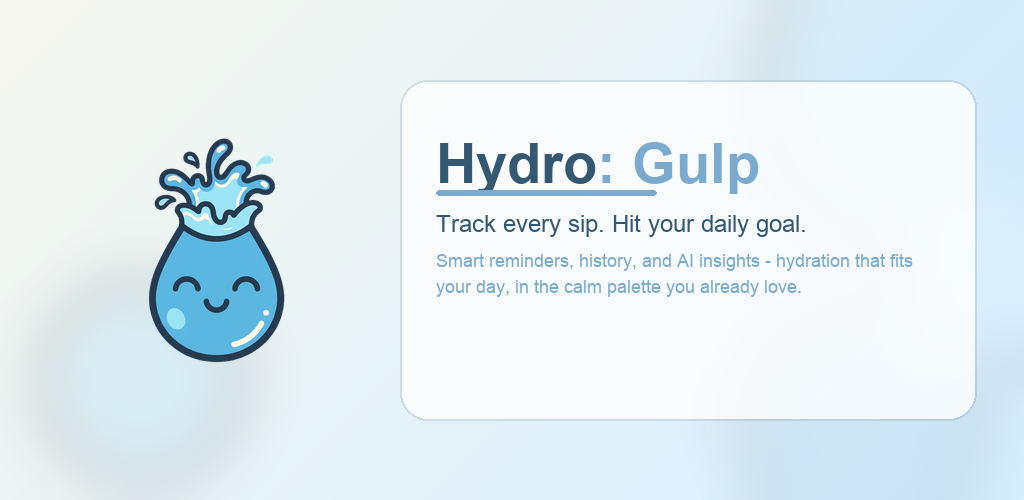
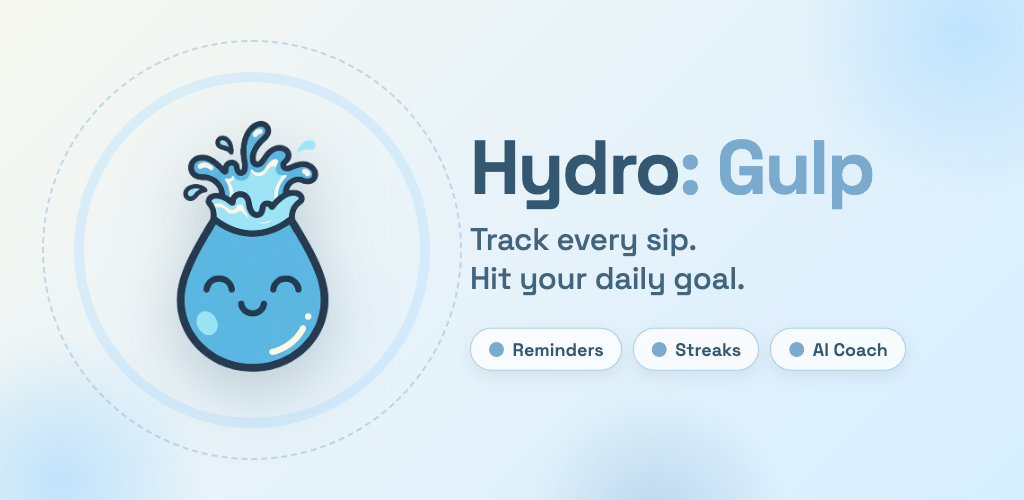
Refactor index.html to enhance mobile layout and readability; updated phone captions for clarity and impact, adjusted styles for better visual presentation.

diff --git a/store-mockups/play-store/feature-graphic.html b/store-mockups/play-store/feature-graphic.html
@@ -1,0 +1,177 @@
+<!DOCTYPE html>
+<html lang="en">
+  <head>
+    <meta charset="UTF-8" />
+    <title>Hydro: Gulp — feature graphic 1024×500</title>
+    <link rel="preconnect" href="https://fonts.googleapis.com" />
+    <link
+      href="https://fonts.googleapis.com/css2?family=Space+Grotesk:wght@500;600;700&display=swap"
+      rel="stylesheet"
+    />
+    <style>
+      /* LightTheme from constants/theme.ts */
+      :root {
+        --bg-start: #f7f8f0;
+        --bg-end: #d6eeff;
+        --text: #355872;
+        --secondary: #7aaace;
+        --accent-light: #9cd5ff;
+      }
+
+      * {
+        box-sizing: border-box;
+      }
+
+      body {
+        margin: 0;
+        background: #0d1520;
+        font-family: "Space Grotesk", system-ui, sans-serif;
+        display: grid;
+        place-items: center;
+        min-height: 100vh;
+      }
+
+      .canvas {
+        width: 1024px;
+        height: 500px;
+        position: relative;
+        overflow: hidden;
+        background: linear-gradient(135deg, var(--bg-start) 0%, #e8f3f9 45%, var(--bg-end) 100%);
+      }
+
+      /* Soft brand-colored orbs, echoing the app's blur cards */
+      .blob {
+        position: absolute;
+        border-radius: 50%;
+        filter: blur(2px);
+      }
+
+      .blob.b1 {
+        width: 340px;
+        height: 340px;
+        right: -110px;
+        top: -140px;
+        background: radial-gradient(circle, rgba(156, 213, 255, 0.5), rgba(156, 213, 255, 0) 70%);
+      }
+
+      .blob.b2 {
+        width: 260px;
+        height: 260px;
+        right: 240px;
+        bottom: -150px;
+        background: radial-gradient(circle, rgba(122, 170, 206, 0.35), rgba(122, 170, 206, 0) 70%);
+      }
+
+      .blob.b3 {
+        width: 300px;
+        height: 300px;
+        left: -90px;
+        bottom: -130px;
+        background: radial-gradient(circle, rgba(156, 213, 255, 0.55), rgba(156, 213, 255, 0) 70%);
+      }
+
+      /* Faint concentric progress ring behind the mascot — nods to the app's goal ring */
+      .ring {
+        position: absolute;
+        left: 42px;
+        top: 40px;
+        width: 420px;
+        height: 420px;
+        border-radius: 50%;
+        border: 2.5px dashed rgba(122, 170, 206, 0.4);
+      }
+
+      .ring.inner {
+        left: 74px;
+        top: 72px;
+        width: 356px;
+        height: 356px;
+        border: 10px solid rgba(156, 213, 255, 0.28);
+      }
+
+      .mascot {
+        position: absolute;
+        /* logo art has ~28% transparent padding — oversize to render ~330px of visible art */
+        left: 22px;
+        top: 16px;
+        width: 460px;
+        height: 460px;
+        object-fit: contain;
+        filter: drop-shadow(0 20px 32px rgba(53, 88, 114, 0.28));
+      }
+
+      .copy {
+        position: absolute;
+        left: 470px;
+        right: 56px;
+        top: 50%;
+        transform: translateY(-50%);
+      }
+
+      .brand {
+        margin: 0 0 14px;
+        font-size: 76px;
+        font-weight: 700;
+        letter-spacing: -0.03em;
+        line-height: 1;
+        color: var(--text);
+      }
+
+      .brand .alt {
+        color: var(--secondary);
+      }
+
+      .tagline {
+        margin: 0 0 30px;
+        font-size: 31px;
+        font-weight: 500;
+        letter-spacing: -0.01em;
+        line-height: 1.25;
+        color: var(--text);
+        opacity: 0.92;
+      }
+
+      .chips {
+        display: flex;
+        flex-wrap: nowrap;
+        gap: 11px;
+      }
+
+      .chip {
+        padding: 9px 17px;
+        border-radius: 999px;
+        background: rgba(255, 255, 255, 0.75);
+        border: 1.5px solid rgba(122, 170, 206, 0.55);
+        box-shadow: 0 6px 16px rgba(53, 88, 114, 0.1);
+        font-size: 18px;
+        font-weight: 600;
+        color: var(--text);
+        white-space: nowrap;
+      }
+
+      .chip .dot {
+        color: var(--secondary);
+        margin-right: 8px;
+      }
+    </style>
+  </head>
+  <body>
+    <div class="canvas">
+      <div class="blob b1"></div>
+      <div class="blob b2"></div>
+      <div class="blob b3"></div>
+      <div class="ring"></div>
+      <div class="ring inner"></div>
+      <img class="mascot" src="../../assets/images/logo.png" alt="Hydro: Gulp mascot" />
+      <div class="copy">
+        <h1 class="brand">Hydro<span class="alt">: Gulp</span></h1>
+        <p class="tagline">Track every sip.<br />Hit your daily goal.</p>
+        <div class="chips">
+          <span class="chip"><span class="dot">●</span>Reminders</span>
+          <span class="chip"><span class="dot">●</span>Streaks</span>
+          <span class="chip"><span class="dot">●</span>AI Coach</span>
+        </div>
+      </div>
+    </div>
+  </body>
+</html>

diff --git a/store-mockups/index.html b/store-mockups/index.html
@@ -90,44 +90,29 @@
         transform-origin: 0 0;
       }
 
-      /* Phone: device + prominent side caption (alternates L/R) inside 1024² */
+      /* Phone: big headline on top, device below — readable at thumbnail size */
       .canvas-phone {
         display: flex;
-        flex-direction: row;
+        flex-direction: column;
         align-items: center;
         justify-content: center;
-        gap: 36px 52px;
-        padding: 28px 40px;
-      }
-
-      /* Body: instructions = child 1. Phone blocks: 2,4,6,8 = caption left; 3,5,7 = caption right */
-      .canvas-phone:nth-child(even) {
-        flex-direction: row;
-      }
-
-      .canvas-phone:nth-child(odd) {
-        flex-direction: row-reverse;
+        gap: 40px;
+        padding: 44px 40px;
       }
 
       .phone-caption {
-        flex: 0 1 400px;
+        flex: none;
         margin: 0;
-        font-size: 28px;
+        max-width: 940px;
+        font-size: 68px;
         font-weight: 600;
-        line-height: 1.28;
-        letter-spacing: -0.02em;
+        line-height: 1.08;
+        letter-spacing: -0.025em;
+        text-align: center;
         color: #f2f8ff;
         text-shadow:
           0 1px 0 rgba(0, 0, 0, 0.35),
           0 4px 24px rgba(0, 0, 0, 0.35);
-      }
-
-      .canvas-phone:nth-child(even) .phone-caption {
-        text-align: left;
-      }
-
-      .canvas-phone:nth-child(odd) .phone-caption {
-        text-align: right;
       }
 
       /* Phone frame — portrait */
@@ -242,9 +227,7 @@
     </div>
 
     <div class="canvas-phone">
-      <p class="phone-caption">
-        Log water and see your daily progress, quick-add buttons, and today’s drink list.
-      </p>
+      <p class="phone-caption">Track Every Sip</p>
       <div class="device-phone">
         <div class="phone-inner">
           <img src="screenshots/01-today.png" alt="Today" />
@@ -253,9 +236,7 @@
     </div>
 
     <div class="canvas-phone">
-      <p class="phone-caption">
-        Review weekly intake, streaks, and your monthly hydration calendar at a glance.
-      </p>
+      <p class="phone-caption">Build Streaks</p>
       <div class="device-phone">
         <div class="phone-inner">
           <img src="screenshots/02-history.png" alt="History" />
@@ -264,9 +245,7 @@
     </div>
 
     <div class="canvas-phone">
-      <p class="phone-caption">
-        Explore averages, trends, drink breakdown, and how your hydration changes over time.
-      </p>
+      <p class="phone-caption">See Your Trends</p>
       <div class="device-phone">
         <div class="phone-inner">
           <img src="screenshots/03-analytics.png" alt="Analytics" />
@@ -275,9 +254,7 @@
     </div>
 
     <div class="canvas-phone">
-      <p class="phone-caption">
-        Get personalized motivation and tips grounded in your real intake and goals.
-      </p>
+      <p class="phone-caption">AI Hydration Coach</p>
       <div class="device-phone">
         <div class="phone-inner">
           <img src="screenshots/04-ai-insights.png" alt="AI Insights" />
@@ -286,9 +263,7 @@
     </div>
 
     <div class="canvas-phone">
-      <p class="phone-caption">
-        Sign in with Google and start your hydration journey in a few quick steps.
-      </p>
+      <p class="phone-caption">Start in Seconds</p>
       <div class="device-phone">
         <div class="phone-inner">
           <img src="screenshots/05-onboarding.png" alt="Onboarding" />
@@ -297,9 +272,7 @@
     </div>
 
     <div class="canvas-phone">
-      <p class="phone-caption">
-        Turn on notifications and schedule reminders so you never fall behind on water.
-      </p>
+      <p class="phone-caption">Smart Reminders</p>
       <div class="device-phone">
         <div class="phone-inner">
           <img src="screenshots/06-reminders.png" alt="Reminders" />
@@ -308,9 +281,7 @@
     </div>
 
     <div class="canvas-phone">
-      <p class="phone-caption">
-        Set your daily goal, tweak preferences, and manage your Pro subscription.
-      </p>
+      <p class="phone-caption">Your Goal, Your Way</p>
       <div class="device-phone">
         <div class="phone-inner">
           <img src="screenshots/07-profile.png" alt="Profile" />